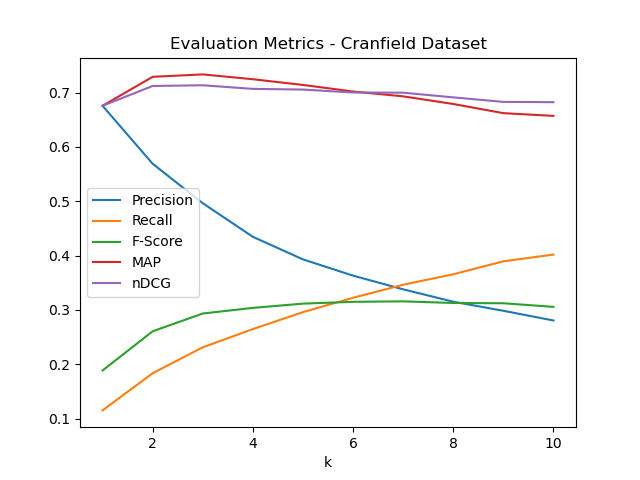
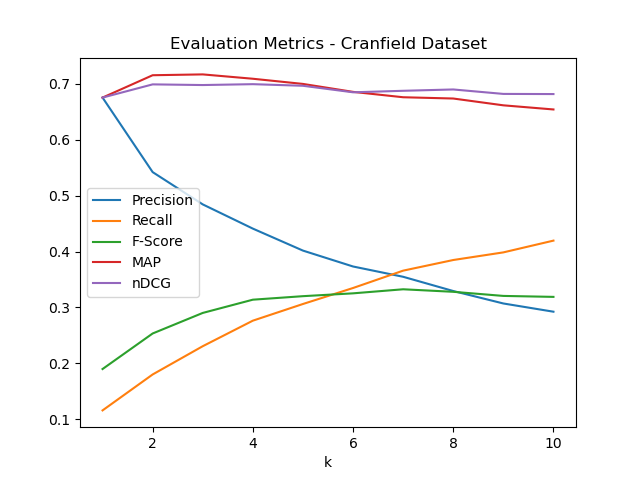
Assignment-1 Part-2 finished

diff --git a/Assignment-1/informationRetrieval.py b/Assignment-1/informationRetrieval.py
@@ -77,12 +77,15 @@ class InformationRetrieval():
 					idx = terms.index(word)
 					TF[docID][idx] += 1
 
+		for word,_ in IDF.items():
+			IDF[word] = np.log( len(docIDs)/IDF[word] )
 
 		for docID in docIDs:
 			for idx,word in enumerate(terms): 
 				if (inv_index[docID][idx]==0) :
-					inv_index[docID][idx] = TF[docID][idx]* np.log( len(docIDs)/IDF[word] )
+					inv_index[docID][idx] = TF[docID][idx]*IDF[word]
 
+		index["IDF"] = IDF
 		index["inv_index"] = inv_index
 		
 		self.index = index
@@ -109,6 +112,7 @@ class InformationRetrieval():
 		terms = self.index["terms"]
 		dim = self.index["dim"]
 		doc_IDs = self.index["docIDs"]
+		IDF = self.index["IDF"]
 		inv_index = self.index["inv_index"]
 
 		#zero_vector = [0 for i in range(dim)]
@@ -123,6 +127,13 @@ class InformationRetrieval():
 					if word in terms:
 						idx = terms.index(word)
 						query_vectors[i][idx] += 1
+
+		#multiplying query_vectors with IDF of the terms in it
+
+		for query_vector in query_vectors:
+			for i,word in enumerate(terms):
+				query_vector[i] = query_vector[i]*IDF[word]
+
 
 		#computing cosine similarity for all queries with docs
 
